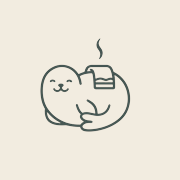
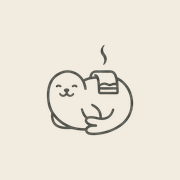
Rebrand to Where We Bathe; add sitewide footer with social links
Renames the site and admin app from Bathers' to Where We Bathe
throughout (config, admin templates/UA strings, package.json, llms.txt,
blog copy, theme-toggle storage key), swaps in fresh seal-with-towel
logo artwork (favicons, share image, site logo) per DESIGN.md's
2026-07-27 note, and adds the new Footer component (Bluesky/TikTok/
email links) per DESIGN.md §5d.

Changed region(s): [[0.2222, 0.1944, 0.75, 0.75]]

diff --git a/site/src/icons/paths.ts b/site/src/icons/paths.ts
@@ -24,7 +24,10 @@ export type IconKey =
   | "pregnancy_safe"
   | "step_free_entry"
   | "hoist_available"
-  | "accessible_changerooms";
+  | "accessible_changerooms"
+  | "bluesky"
+  | "tiktok"
+  | "email";
 
 export const ICON_PATHS: Record<IconKey, string> = {
   magnesium_pool: `
@@ -121,5 +124,22 @@ export const ICON_PATHS: Record<IconKey, string> = {
     <rect x="6" y="3" width="10" height="18" rx="1.2" />
     <circle cx="16.5" cy="16.5" r="3" />
     <path d="M16.5 13.5v3l2.3 1.3" />
+  `,
+  // 2026-07-27 additions (DESIGN.md §5d, footer) — same stroke-only
+  // primitive language as the rest of the set: simplified, not literal,
+  // brand-mark tracings.
+  bluesky: `
+    <path d="M12 8c-.5-3.5-3.8-6-8-5.5-.8 3.6.8 8 5.5 9.6.9.3 1.9.2 2.5-.4z" />
+    <path d="M12 8c.5-3.5 3.8-6 8-5.5.8 3.6-.8 8-5.5 9.6-.9.3-1.9.2-2.5-.4z" />
+    <path d="M12 8c-1 2-1 4.5 0 6.5 1-2 1-4.5 0-6.5z" />
+  `,
+  tiktok: `
+    <circle cx="9.3" cy="17.5" r="3.2" />
+    <path d="M12.5 17.5V4" />
+    <path d="M12.5 4c2.2-.2 3.8 1 4 3" />
+  `,
+  email: `
+    <rect x="3" y="5" width="18" height="14" rx="1.5" />
+    <path d="M3.5 6.2L12 13l8.5-6.8" />
   `,
 };

diff --git a/site/src/config.ts b/site/src/config.ts
@@ -267,8 +267,13 @@ export function coldPlungeTemperatureLine(t: TemperatureRange): string | null {
   return t.cold_plunge_display ?? formatTempRange(t.cold_plunge_min_c, t.cold_plunge_max_c);
 }
 
-export const SITE_NAME = "Bathers'";
+export const SITE_NAME = "Where We Bathe";
 export const SITE_TAGLINE = "A field guide to Australian saunas, hot pools and bathhouses.";
+
+// Footer contact/social links (2026-07-27 addition, DESIGN.md §5d).
+export const SITE_CONTACT_EMAIL = "sebastian@wherewebathe.com";
+export const SITE_BLUESKY_URL = ""; // TODO: real Bluesky handle URL
+export const SITE_TIKTOK_URL = ""; // TODO: real TikTok handle URL
 
 // Claim-listing CTA (2026-07-23 addition — TRD.md §8 exception, UX.md §2.5).
 // No longer used by the claim page itself since the 2026-07-25 form/payment

diff --git a/admin/templates/blog.html b/admin/templates/blog.html
@@ -3,14 +3,14 @@
   <head>
     <meta charset="UTF-8" />
     <meta name="viewport" content="width=device-width, initial-scale=1.0" />
-    <title>Bathers' — Blog</title>
+    <title>Where We Bathe — Blog</title>
     <link rel="stylesheet" href="/static/admin.css" />
     <link rel="stylesheet" href="/static/vendor/quill/quill.snow.css" />
     <link rel="stylesheet" href="/static/blog.css" />
   </head>
   <body>
     <header class="hub-header">
-      <span class="mono eyebrow">BATHERS' — BLOG</span>
+      <span class="mono eyebrow">WHERE WE BATHE — BLOG</span>
       <p id="save-status" class="mono save-status" aria-live="polite"></p>
       <a href="/claims" class="btn btn-plain">Claims</a>
       <a href="/" class="btn btn-plain">Back to hub</a>

diff --git a/admin/templates/claims.html b/admin/templates/claims.html
@@ -3,13 +3,13 @@
   <head>
     <meta charset="UTF-8" />
     <meta name="viewport" content="width=device-width, initial-scale=1.0" />
-    <title>Bathers' — Claims</title>
+    <title>Where We Bathe — Claims</title>
     <link rel="stylesheet" href="/static/admin.css" />
     <link rel="stylesheet" href="/static/claims.css" />
   </head>
   <body>
     <header class="hub-header">
-      <span class="mono eyebrow">BATHERS' — CLAIMS</span>
+      <span class="mono eyebrow">WHERE WE BATHE — CLAIMS</span>
       <p id="action-status" class="mono save-status" aria-live="polite"></p>
       <a href="/blog" class="btn btn-plain">Blog</a>
       <a href="/" class="btn btn-plain">Back to hub</a>

diff --git a/admin/templates/index.html b/admin/templates/index.html
@@ -3,12 +3,12 @@
   <head>
     <meta charset="UTF-8" />
     <meta name="viewport" content="width=device-width, initial-scale=1.0" />
-    <title>Bathers' — Admin</title>
+    <title>Where We Bathe — Admin</title>
     <link rel="stylesheet" href="/static/admin.css?v={{ static_version }}" />
   </head>
   <body data-site-url="{{ site_url }}">
     <header class="hub-header">
-      <span class="mono eyebrow">BATHERS' — ADMIN</span>
+      <span class="mono eyebrow">WHERE WE BATHE — ADMIN</span>
       <p id="undo-banner" class="mono undo-banner" hidden>
         Approved — <button type="button" id="undo-btn" class="link-btn">undo?</button>
       </p>

diff --git a/admin/templates/claim_action.html b/admin/templates/claim_action.html
@@ -3,13 +3,13 @@
   <head>
     <meta charset="UTF-8" />
     <meta name="viewport" content="width=device-width, initial-scale=1.0" />
-    <title>Bathers' — Claim request</title>
+    <title>Where We Bathe — Claim request</title>
     <link rel="stylesheet" href="/static/admin.css" />
     <link rel="stylesheet" href="/static/claims.css" />
   </head>
   <body>
     <main class="claim-action-page">
-      <span class="mono eyebrow">BATHERS' — CLAIM REQUEST</span>
+      <span class="mono eyebrow">WHERE WE BATHE — CLAIM REQUEST</span>
 
       {% if state == "invalid" %}
       <p class="mono" style="margin-top: 1.5rem;">

diff --git a/admin/app.py b/admin/app.py
@@ -64,7 +64,7 @@ PUBLIC_PATH_PREFIXES = ("/claim-action/",)
 BASE_DIR = Path(__file__).resolve().parent
 templates = Jinja2Templates(directory=str(BASE_DIR / "templates"))
 
-app = FastAPI(title="Bathers' Admin")
+app = FastAPI(title="Where We Bathe Admin")
 app.mount("/static", StaticFiles(directory=str(BASE_DIR / "static")), name="admin-static")
 # Mounted unconditionally (dir created if missing) so a later `npm run build`
 # becomes visible on the next request with no admin restart required.
@@ -96,7 +96,7 @@ async def require_basic_auth(request: Request, call_next):
     if not ADMIN_USERNAME and not ADMIN_PASSWORD:
         return await call_next(request)
     if not _basic_auth_ok(request.headers.get("authorization")):
-        return Response(status_code=401, headers={"WWW-Authenticate": 'Basic realm="Bathers Admin"'})
+        return Response(status_code=401, headers={"WWW-Authenticate": 'Basic realm="Where We Bathe Admin"'})
     return await call_next(request)
 
 

diff --git a/admin/pipeline/images.py b/admin/pipeline/images.py
@@ -23,7 +23,7 @@ from admin.config import IMAGES_DIR, SITE_IMAGES_DIR
 MAX_CANDIDATES = 5
 MAX_DIMENSION = 1600
 FETCH_TIMEOUT = 20.0
-USER_AGENT = "BathersDirectoryBot/1.0 (local admin tool; contact via venue's own listing)"
+USER_AGENT = "WhereWeBatheBot/1.0 (local admin tool; contact via venue's own listing)"
 
 _SKIP_HINTS = (
     "logo", "icon", "sprite", "favicon", "avatar", "pixel.gif", "1x1",

diff --git a/admin/pipeline/harvest.py b/admin/pipeline/harvest.py
@@ -16,7 +16,7 @@ import trafilatura
 
 TIMEOUT_SECONDS = 20.0
 THIN_EXTRACTION_CHARS = 500
-USER_AGENT = "BathersDirectoryBot/1.0 (local admin tool; contact via venue's own listing)"
+USER_AGENT = "WhereWeBatheBot/1.0 (local admin tool; contact via venue's own listing)"
 
 
 class ScrapeError(Exception):

diff --git a/DESIGN.md b/DESIGN.md
@@ -134,6 +134,19 @@ A narrow, deliberate exception to the site's otherwise icon-free, toggle-free ch
 
 **Favicon and social share image (same 2026-07-26 exception):** the seal also replaces the earlier inline thermal-ring SVG favicon — `site/public/favicon-16x16.png` / `favicon-32x32.png` / `apple-touch-icon.png`, generated from the same source artwork (opaque `--paper`-coloured background on the apple-touch variant only, per Apple's guidance against transparency there; the two browser favicons stay transparent). `site/public/images/og-share.webp` (1200×630, the default `og:image`/`twitter:image` across the site unless a page sets its own) is the same lockup — seal, wordmark, tagline — on the light-mode palette, since share-card surfaces are outside this site's own theme toggle and light reads reliably across chat/social clients. Neither asset is theme-aware; both are static files, not rendered per request.
 
+**2026-07-27 rebrand.** The site's name changes from `Bathers'` to `Where We Bathe` (`SITE_NAME`, `site/src/config.ts`) — new logo artwork, same seal mascot (a fresh seal-with-towel illustration replacing the earlier seal source, still masked/recoloured the same way). This section's earlier references to the `Bathers'` wordmark above are superseded by this note, kept unedited for the record. The lockup mechanics described above — seal icon + live Fraunces text beside/above it, the favicon set, and `og-share.webp` — are unchanged in *technique*; only the wordmark text and the mascot source artwork change.
+
+---
+
+## 5d. Footer (2026-07-27 addition)
+
+**Exception (user-approved, 2026-07-27), a narrow extension of §6's icon-free posture (previously scoped only to venue-feature display, the corner menu's "Browse by feature" list, and the homepage chooser) to one additional use: three social/contact links in a new sitewide footer.**
+
+- One shared component (`site/src/components/Footer.astro`), rendered once from `BaseLayout.astro` on every public page, as the last in-flow element of `.page-frame` — public site only, no equivalent in the admin app (§8).
+- A single hairline top border (`--ink-faded` at 25% opacity, the same divider idiom used throughout §4/§5) — no card, no box, no background distinct from `--paper`.
+- Three mono-text links (Bluesky, TikTok, email), each an icon (§6's renderer, 20px — matching the corner menu's "Browse by feature" size) plus a visible mono label, not icon-only. `--ink-faded` at rest, `--thermal` on hover/focus — the same treatment as every other interactive element on the site (§7a, §5b).
+- A single mono colophon line beneath the links (site name + tagline). No further nav, no sitemap-style link column — this is a printer's colophon, not a SaaS footer.
+
 ---
 
 ## 6. Venue Feature Display — Icon System
